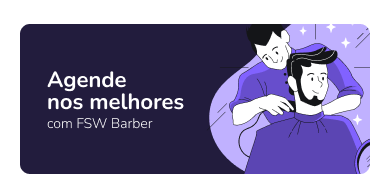
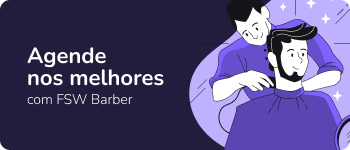
feat: add quick search constants

diff --git a/app/page.tsx b/app/page.tsx
@@ -8,11 +8,16 @@ import { Badge } from "./_components/ui/badge"
 import { Avatar, AvatarImage } from "./_components/ui/avatar"
 import { db } from "./_lib/prisma"
 import BarbershopItem from "./_components/barbershop-item"
+import { quickSearchOptions } from "./_constants/search"
 
 const Home = async () => {
   //chamar seu banco de dados
   const barbershops = await db.barbershop.findMany({})
-
+  const popularBarbershops = await db.barbershop.findMany({
+    orderBy: {
+      name: "desc",
+    },
+  })
   return (
     <div>
       {/* header */}
@@ -29,11 +34,26 @@ const Home = async () => {
             <SearchIcon />
           </Button>
         </div>
+        {/* Busca rapida */}
+        <div className="mt-6 flex gap-2 overflow-x-scroll [&::-webkit-scrollbar]:hidden">
+          {quickSearchOptions.map((option) => (
+            <Button className="gap-2" variant="secondary" key={option.title}>
+              <Image
+                src={option.imageUrl}
+                width={16}
+                height={16}
+                alt={option.title}
+              />
+              {option.title}
+            </Button>
+          ))}
+        </div>
+
         {/* Banner */}
         <div className="relative mt-6 h-[150px] w-full">
           <Image
             alt="Agende nos melhores com FSW Barber"
-            src="/banner-01.png"
+            src="/banner-01.svg"
             fill
             className="rounded-xl object-cover"
           />
@@ -68,12 +88,31 @@ const Home = async () => {
         <h2 className="mb-3 mt-6 text-xs font-bold uppercase text-gray-400">
           Recomendados
         </h2>
-        <div className="flex gap-y-4 overflow-auto [&::-webkit-scrollbar]:hidden">
+        <div className="flex gap-4 overflow-auto [&::-webkit-scrollbar]:hidden">
           {barbershops.map((barbershop) => (
             <BarbershopItem key={barbershop.id} barbershop={barbershop} />
           ))}
         </div>
+
+        <h2 className="mb-3 mt-6 text-xs font-bold uppercase text-gray-400">
+          Populares
+        </h2>
+        <div className="flex gap-4 overflow-auto [&::-webkit-scrollbar]:hidden">
+          {popularBarbershops.map((barbershop) => (
+            <BarbershopItem key={barbershop.id} barbershop={barbershop} />
+          ))}
+        </div>
       </div>
+      <footer>
+        <Card>
+          <CardContent className="px-5 py-6">
+            <p className="text-sm text-gray-400">
+              © 2023 Copyrightspan{" "}
+              <span className="font-bold"> FSW Barber</span>
+            </p>
+          </CardContent>
+        </Card>
+      </footer>
     </div>
   )
 }

diff --git a/app/_constants/search.ts b/app/_constants/search.ts
@@ -1,0 +1,31 @@
+interface QuickSearchOption {
+  imageUrl: string
+  title: string
+}
+
+export const quickSearchOptions: QuickSearchOption[] = [
+  {
+    imageUrl: "/cabelo.svg",
+    title: "Cabelo",
+  },
+  {
+    imageUrl: "/barba.svg",
+    title: "Barba",
+  },
+  {
+    imageUrl: "/acabamento.svg",
+    title: "Acabamento",
+  },
+  {
+    imageUrl: "/sobrancelha.svg",
+    title: "Sobrancelha",
+  },
+  {
+    imageUrl: "/massagem.svg",
+    title: "Massagem",
+  },
+  {
+    imageUrl: "/hidratação.svg",
+    title: "Hidratação",
+  },
+]

diff --git a/app/_components/barbershop-item.tsx b/app/_components/barbershop-item.tsx
@@ -34,10 +34,7 @@ const BarbershopItem = ({ barbershop }: BarbershopItemProps) => {
         {/* Texto */}
         <div className="px-1 py-3">
           <h3 className="truncate font-semibold">{barbershop.name} </h3>
-          <p className="truncate text-sm text-gray-400">
-            {" "}
-            {barbershop.address}{" "}
-          </p>
+          <p className="truncate text-sm text-gray-400">{barbershop.address}</p>
           <Button variant="secondary" className="mt-3 w-full">
             Reservar
           </Button>
